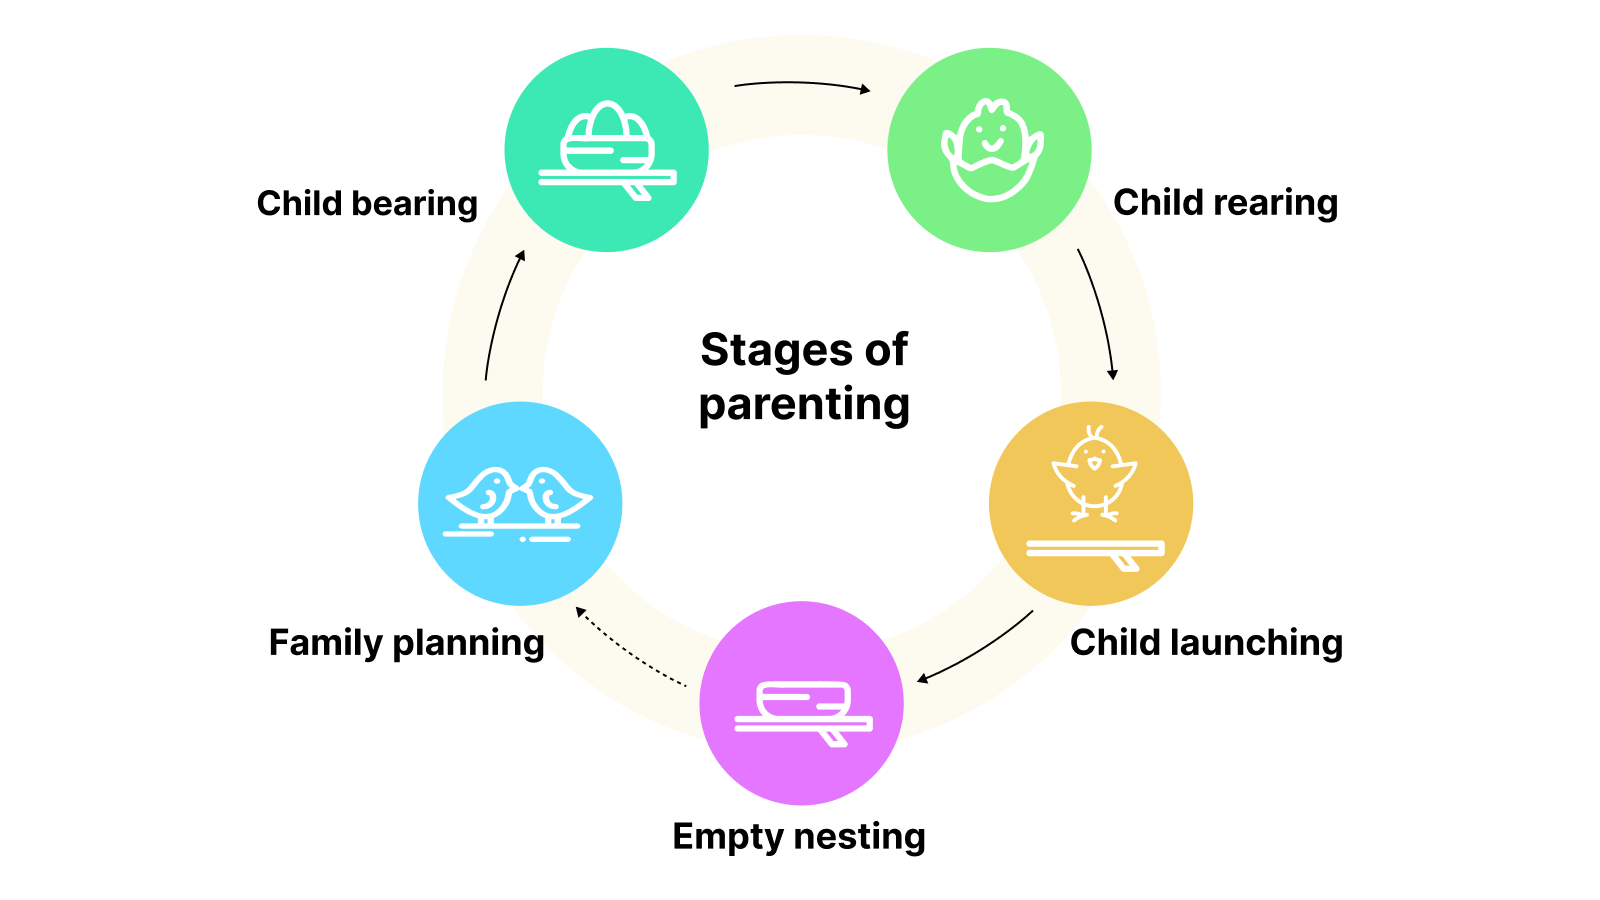
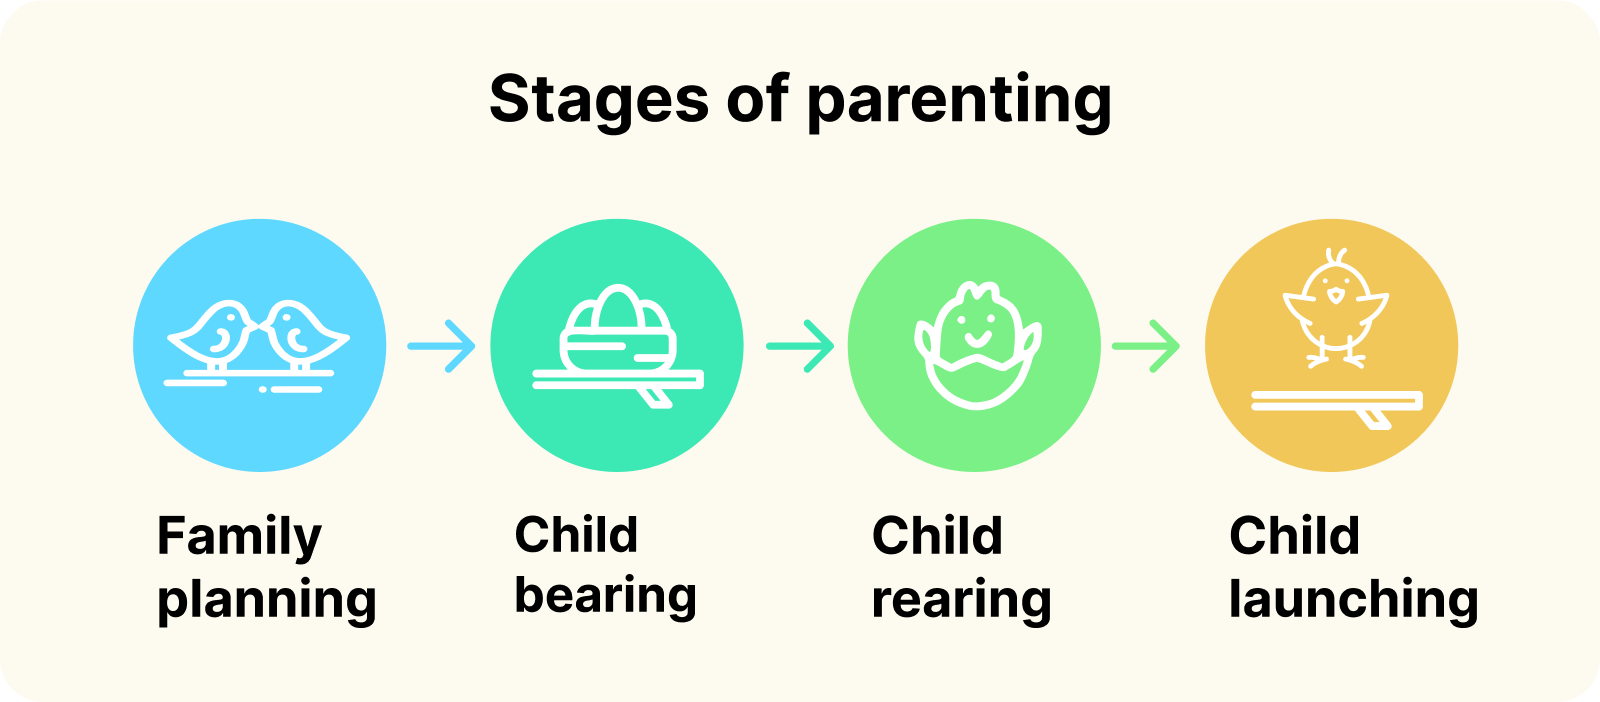
edits to family tech market map

Changed region(s): [[0.0625, 0.0299, 0.9375, 0.9573], [0.75, 0.8376, 0.9375, 0.8974], [0.0938, 0.8376, 0.25, 0.8974]]

diff --git a/content/posts/family_tech_market_map.md b/content/posts/family_tech_market_map.md
@@ -1,14 +1,14 @@
 ---
 title: "Building to care for the modern family"
-date: 2022-11-09T00:00:11-04:00
+date: 2022-11-10T00:00:11-04:00
 tags: ["healthtech", "familytech"]
-summary: "Mapping out 175+ companies revolutionizing the Family Tech market."
+summary: "Mapping out 175+ companies in the Family Tech market... and why you should Care."
 draft: false
 slug: "/family-tech-market-map"
 hero_img: "/banner_family_tech_market_map.png"
 ---
 
-## The Nuclear family is dead
+## The nuclear family is dead
 
 The “nuclear family” was coined by Bronisław Malinowski, considered the father of social anthropology. He argued for the universal centrality of a biological family that looked something like this: 
 
@@ -16,27 +16,29 @@ The “nuclear family” was coined by Bronisław Malinowski, considered the fat
 
 Well, not anymore.
 
-While the family is still the fundamental building block of society, millennials are rewriting the parenting playbook to form modern families. In the modern family, women and individuals are demanding the freedom of choice: The choice of whether they want to have kids, how and where to give birth, where to go for flexible child care, whether they want quality mental healthcare in-person or virtually… the list goes on. (To butcher Tolstoy, “All nuclear families are alike; each modern family is modern in their own way.”)
+While the family is still the fundamental building block of society, millennials are rewriting the parenting playbook to form modern families. In the modern family, women and parents are demanding agency: The power to choose whether they want to have kids, how and where to give birth, where to go for flexible child care… the list goes on. (To butcher Tolstoy, “All nuclear families are alike; each modern family is modern in their own way.”)
 
-What’s enabling this shift towards the modern family? Family Tech. 
+There’s an outsized opportunity to build and invest in the infrastructure, products and services that enable this agency. You’re seeing it already. If you’re not ready for kids just yet, you can order contraceptives conveniently online through an e-prescription brand. If you’re deciding on a home birth, you can sign up for a virtual consult with a midwife to walk you through options. If an urgent meeting comes up and you need child care ASAP, you can search through a child care marketplace for open spots at a center nearby. 
+
+I call this market “Family Tech.” And we’re only at the early innings of innovating in it.
 
 ---
 
-## Family Tech, a growing $46B market opportunity
+## Mapping out the $46B Family Tech market
 
-Family Tech encompasses a new wave of tech-enabled products and services that are helping millennial parents and caregivers plan for, create, and care for the modern family.
+Family Tech encompasses a new wave of tech-enabled products and services that are empowering millennial women and parents with the agency to care for the modern family. In this article, I’m taking you along with me as I map out the $46B (and growing) market opportunity. We’ll break down the stages and categories, why you should care as a builder or investor, and existing companies that are paving the way. 
 
-It’d be remiss to not mention how Family Tech is shaped by women’s health innovations. “FemTech” is a buzzworthy [$38B](https://www.globenewswire.com/en/news-release/2022/05/10/2439959/0/en/Global-Women-s-Health-Market-was-valued-at-38-billion-in-2021-and-is-expected-to-grow-at-a-CAGR-of-over-4-5-to-cross-47-billion-by-2026.html) market that raised [$1.3B](https://www.mobihealthnews.com/news/femtech-startups-nearly-double-funding-dollars-last-year-still-make-small-percent-market) last year, with unicorns like Maven Clinic and Tia as shining exemplars of why invest in the space and VCs digging deep with comprehensive theses including [this one](https://m13.co/article/how-femtech-innovations-can-help-break-taboos-around-womens-health) by Winnie Lau for M13 and [this one](https://rockhealth.com/insights/building-comprehensive-women-digital-health-eight-sectors-serving-women-needs/) by Rock Health.
+But before that, I’d be remiss to not mention how Family Tech is shaped by all the movement in the past decade around women’s health. “FemTech” is a buzzworthy [$38B](https://www.globenewswire.com/en/news-release/2022/05/10/2439959/0/en/Global-Women-s-Health-Market-was-valued-at-38-billion-in-2021-and-is-expected-to-grow-at-a-CAGR-of-over-4-5-to-cross-47-billion-by-2026.html) market that raised [$1.3B](https://www.mobihealthnews.com/news/femtech-startups-nearly-double-funding-dollars-last-year-still-make-small-percent-market) last year, with unicorns like Maven Clinic and Tia as shining exemplars of why invest in the space and VCs digging deep with comprehensive theses including [this one](https://m13.co/article/how-femtech-innovations-can-help-break-taboos-around-womens-health) by Winnie Lau for M13 and [this one](https://rockhealth.com/insights/building-comprehensive-women-digital-health-eight-sectors-serving-women-needs/) by Rock Health.
 
-While Family Tech is deeply intertwined with the woman’s outsized role as the child bearer and caregiver, it also encompasses a broader swathe of innovations. Family Tech includes products and services used by parents across the entire continuum of care: family planning, child bearing, child rearing, and child launching. 
+While Family Tech is deeply intertwined with the woman’s outsized role as the child bearer and oftentimes primary caregiver, it also encompasses a broader swathe of innovations. Family Tech includes products and services used by parents across the entire continuum of care: family planning, child bearing, child rearing, and child launching. 
 
 ![Stages of parenting](/img/stages_of_parenting.png)
 
-Let’s dive into the Family Tech market, with 175+ companies representing incumbents and early-stage startups, across 26 categories.
+Now, let’s dive in together across those four stages of parenting. Here are 175+ companies (representing incumbents and early-stage startups alike) across 26 categories who're building in Family Tech. 
 
 <iframe class="airtable-embed" src="https://airtable.com/embed/shrKQ5Lyf66G5pJc6?backgroundColor=pink&viewControls=on" frameborder="0" onmousewheel="" width="100%" height="533" style="background: transparent; border: 1px solid #ccc;"></iframe>
 
-This is a working market map that I'll continue adding to. You can view the companies in the Airtable above. Any Family Tech companies missing? <a href="https://airtable.com/shruhv7HKjFLtUU36" target="_blank">Submit them here</a>.
+Note that this market map is a living document that I'll continue adding to. You can view the companies and contribute to the Airtable above. Any Family Tech companies missing? <a href="https://airtable.com/shruhv7HKjFLtUU36" target="_blank">Share them here</a>.
 
 ---
 
@@ -55,17 +57,17 @@ Family planning has garnered tons of investments over the past decade under the 
 - **Abortion services** like [Hey Jane](https://heyjane.com/) and [Choix](https://choixhealth.com/) are navigating the aftermaths of the Dobbs decision to provide women with abortion pills and treatment when they need it most. 
 - **Female contraception** providers like [TBD Health](https://www.tbd.health/), [Favor](https://heyfavor.com/), and [Stix](https://getstix.co/) make online prescription to birth control, morning after pills and other contraceptives — used by 64.9% of U.S. women ages 14-49 — seamless and convenient. 
 - **Male contraception** providers like [YourChoice](https://www.yourchoicetx.com/) and [Contraline](http://www.contraline.com/) are helping men step up by racing to market to be the first male contraceptive. 
-- **Egg freezing & in vitro fertilization (IVF)** have grown in popularity with high-touch clinics like [Lilia](https://www.hellolilia.com/), [Cofertility](https://www.cofertility.com/) and [Extend Fertility](https://extendfertility.com/) popping up. AI-powered clinical tools like [Alife](https://www.alifehealth.com) and [Future Fertility](https://futurefertility.com/) are looking to improve the pregnancy odds of IVF — the most effective fertility treatment. 
-- **Sperm testing & freezing** companies like [Legacy](https://www.givelegacy.com/) and [Mojo](https://mymojo.ai/) provide at-home testing solutions and sperm cryopreservation to understand and preserve male fertility.
-- **IUI (intrauterine insemination), ICI (intracervical insemination), & intravaginal insemination (IVI)** solutions like [Two Plus Fertility](https://us.twoplusfertility.com/) and [Mosie Baby](https://mosiebaby.com/) provide convenient artificial insemination options to help couples get pregnant from their own home. 
-- **Surrogacy & egg donation** services like [Nodal](https://www.nodal.com/) and [goStork](https://www.gostork.com/) enables third-party reproduction for women who have preexisting health conditions that can make pregnancy dangerous, or who can’t get pregnant with their own eggs. 
-- **Adoption** startups like [Binti](https://binti.com/) and [PairTree](https://pairtreefamily.com/) make the adoption process more streamlined for the 135,000 children in the U.S. being adopted each year.
+- **PCOS & endometriosis care** providers like [Allara](https://allarahealth.com/), [Perla Health](https://perlahealth.com/) and [May Health](https://www.mayhealth.com/) are helping treat two of the most common causes of infertility.
 - **Fertility testing** including at-home testing services like [Modern Fertility](https://modernfertility.com/) and [Noula](https://noula.com/) equip women with data-driven insights on their reproductive health and fertility. 
 - **Fertility tracking** apps like [Ava](https://www.avawomen.com/) and [Flo](https://flo.health/) provide the software to track ovulation so women can make data-driven decisions on their fertility journey. 
+- **Sperm testing & freezing** companies like [Legacy](https://www.givelegacy.com/) and [Mojo](https://mymojo.ai/) provide at-home testing solutions and sperm cryopreservation to understand and preserve male fertility.
+- **IUI (intrauterine insemination), ICI (intracervical insemination), & intravaginal insemination (IVI)** solutions like [Two Plus Fertility](https://us.twoplusfertility.com/) and [Mosie Baby](https://mosiebaby.com/) provide convenient artificial insemination options to help couples get pregnant from their own home. 
+- **Egg freezing & in vitro fertilization (IVF)** have grown in popularity with high-touch clinics like [Lilia](https://www.hellolilia.com/), [Cofertility](https://www.cofertility.com/) and [Extend Fertility](https://extendfertility.com/) popping up. AI-powered clinical tools like [Alife](https://www.alifehealth.com) and [Future Fertility](https://futurefertility.com/) are looking to improve the pregnancy odds of IVF — the most effective fertility treatment. 
 - **Fertility financing & benefits** are heating up, with [Gaia](https://gaiafamily.com/), [Hera Fertility](https://herafertility.co/) and [Future Family](https://www.futurefamily.com/) providing financing solutions to plan ahead for and lower the cost of fertility treatments, which are often not covered by insurance. Employer fertility benefits like [Carrot Fertility](https://www.get-carrot.com/), [Frame Fertility](https://www.framefertility.com/) and [Fertifa](https://www.fertifa.com/) are helping employees navigate fertility care and employers attract and retain talent.
+- **Surrogacy & egg donation** services like [Nodal](https://www.nodal.com/) and [goStork](https://www.gostork.com/) enables third-party reproduction for women who have preexisting health conditions that can make pregnancy dangerous, or who can’t get pregnant with their own eggs. 
+- **Adoption** startups like [Binti](https://binti.com/) and [PairTree](https://pairtreefamily.com/) make the adoption process more streamlined for the 135,000 children in the U.S. being adopted each year.
 - **Fertility communities** like [Rescripted](https://rescripted.com/) and [Conceive](https://weconceive.com/) create and curate virtual resources and group spaces to provide education, guidance and support to navigate often complicated fertility journeys.
 - **Relationship counseling** platforms like [Ours](https://www.withours.com/) and [Ritual](https://www.heyritual.com/) help you navigate the challenges of family planning, parenthood and everything inbetween through healthy communication. 
-- **PCOS & endometriosis care** providers like [Allara](https://allarahealth.com/), [Perla Health](https://perlahealth.com/) and [May Health](https://www.mayhealth.com/) are helping treat two of the most common causes of infertility.
 
 ---
 
@@ -127,11 +129,15 @@ If VC funding is any any indication, this market is ripe for disruption: digital
 ---
 ## Let’s build to care for the modern family, together
 
-Family Tech is deeply personal to me. I’m the [Chief of Staff](http://www.capablehealth.com/) at Capable Health where we provide Family Tech builders with the software infrastructure for modern care delivery, a Venture Fellow at [Susa Ventures](http://www.susaventures.com/) where we invest in early-stage Family Tech founders, and a millennial woman who’s starting to assess her own family planning options.
+While the nuclear family is dead, the modern family is thriving. Millennial women and individuals who’re looking for agency and choice across the care continuum — from family planning to child launching — are turning to Family Tech. Ultimately, these tech-enabled products and services are a $46B and growing opportunity to build and invest in bettering the health outcomes of women, mothers, parents, children, and families. 
+
+And that’s why Family Tech is deeply personal to me. I’m the [Chief of Staff](http://www.capablehealth.com/) at Capable Health where we provide Family Tech builders with the software infrastructure for modern care delivery, and a Venture Fellow at [Susa Ventures](http://www.susaventures.com/) where we invest in early-stage Family Tech founders. But I"m also a millennial woman who’s starting to assess her own family planning options.
+
+While this article served as a “primer” of sorts on the Family Tech space, there’s tons more to unpack. I’ll be diving into a few categories over the next months to break down trends and white space opportunities. Subscribe below to get notified. 
 
 Over the next few months, I’m going to dive into a few Family Tech categories to break down trends I’m bullish on, and white space opportunities I’m seeing in the market. Subscribe below to get notified. 
 
-I hope to be helpful to founders building to care for the modern family. Please do reach out at [@thebettychang](https://twitter.com/thebettychang) or [by email](mailto:bttychng@gmail.com).
+If you're a founder building in this space, I hope to be helpful. Please do reach out at [@thebettychang](https://twitter.com/thebettychang) or [by email](mailto:bttychng@gmail.com).
 
 ---
 *A big thank you to [Derick En'Wezoh](https://www.linkedin.com/in/derickenwezoh/) at Susa Ventures for your feedback, advice and encouragement in pulling this market map together.*
